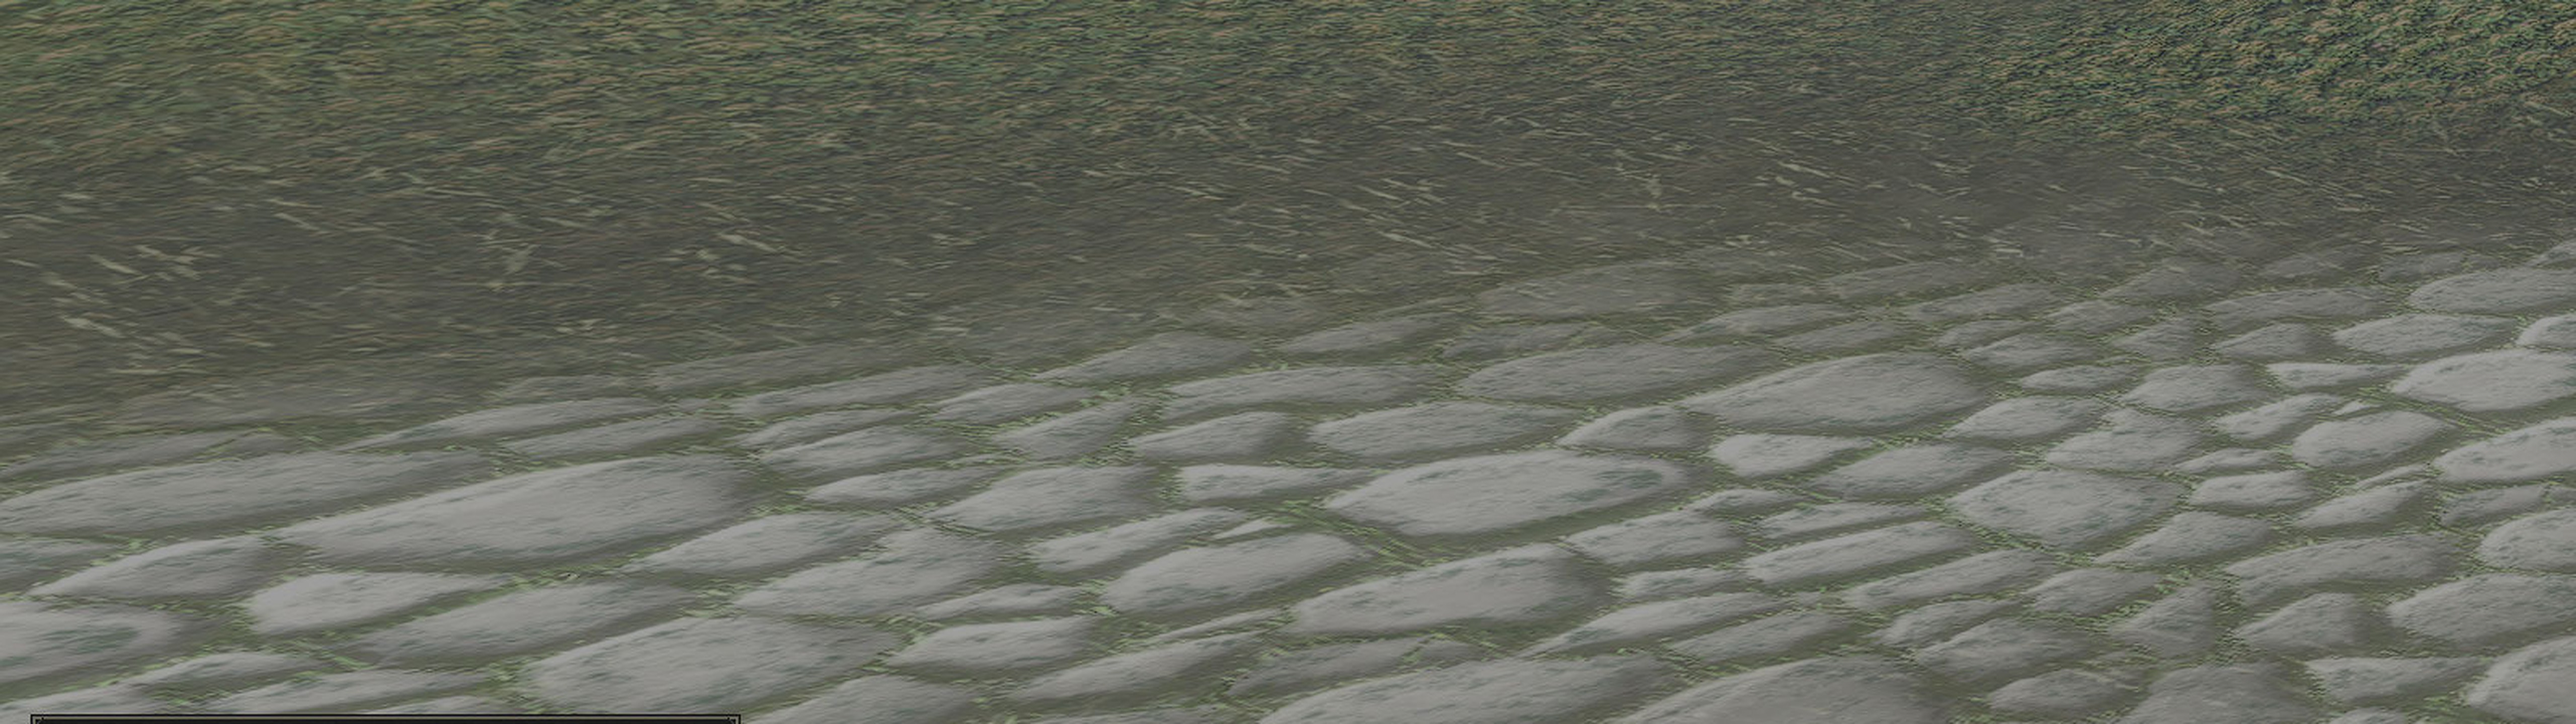
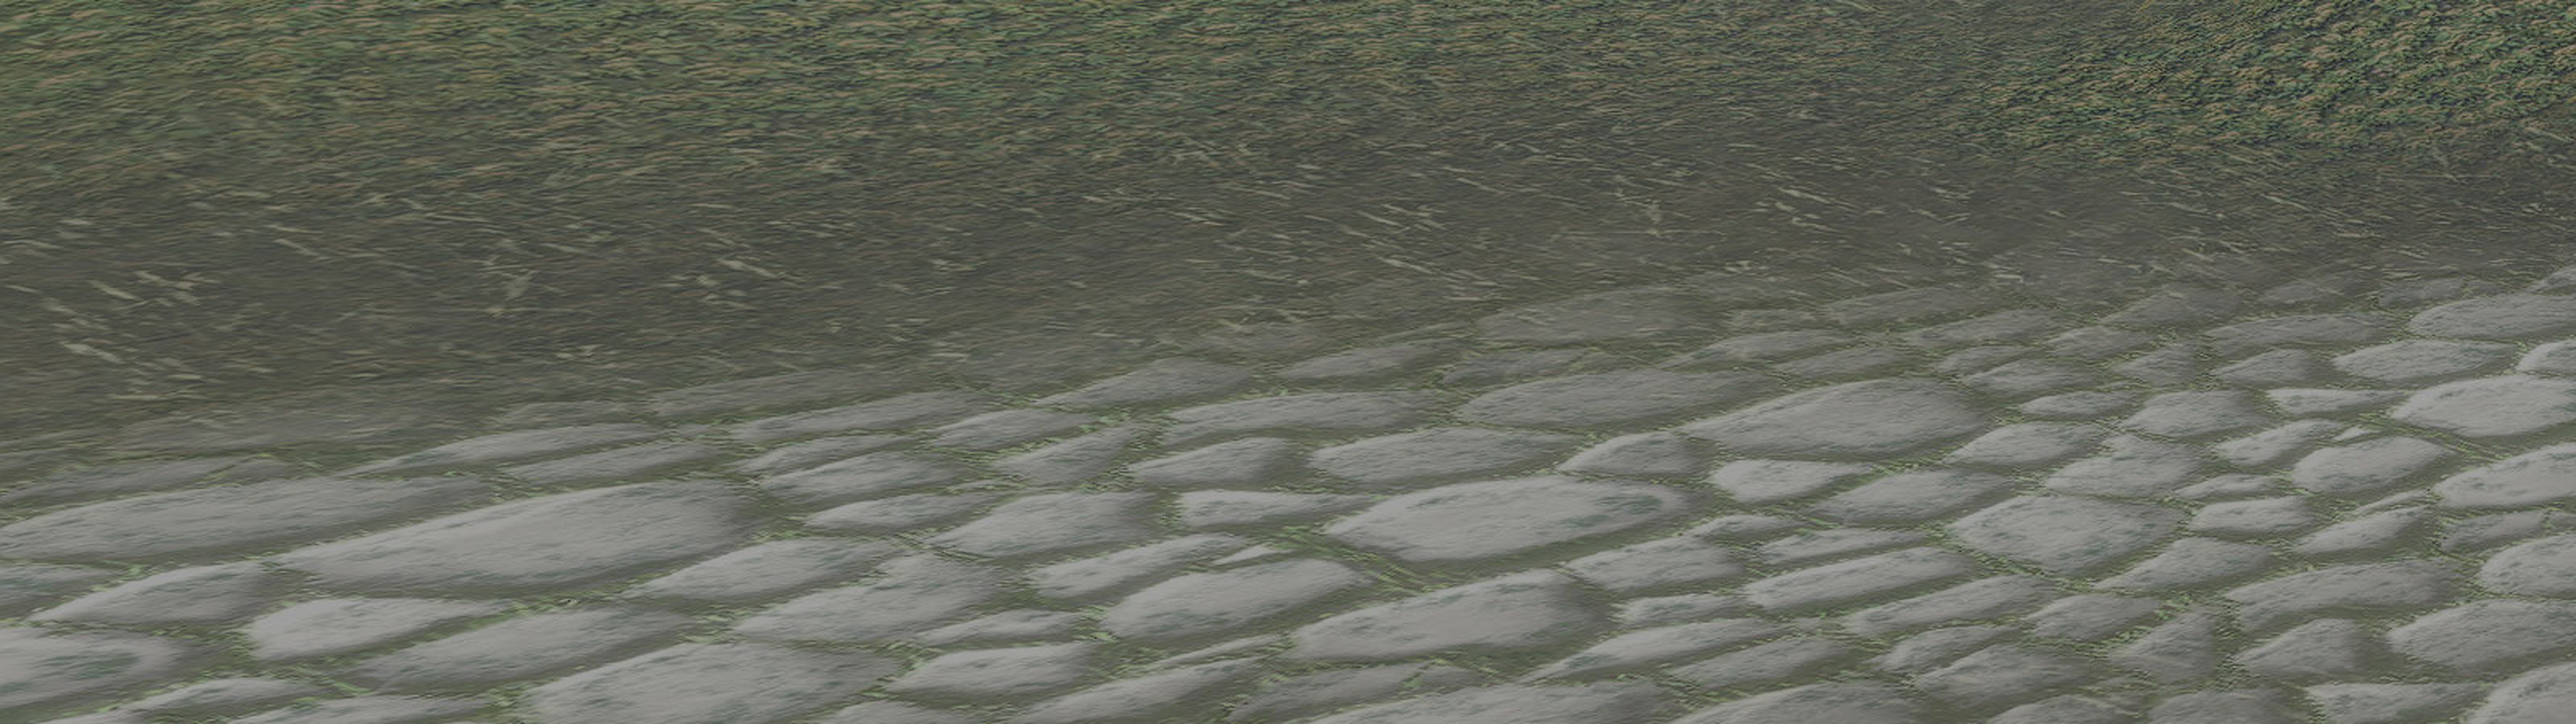
fix(media): exclude old chat frame from Orbs scenery

diff --git a/Tools/tests/test_marketing.py b/Tools/tests/test_marketing.py
@@ -92,6 +92,23 @@ class MarketingImages(unittest.TestCase):
         inputs = [source for _, source, *_ in M.CARDS + M.SHOWCASES + M.GALLERY]
         self.assertTrue(set(inputs) <= known, set(inputs) - known)
 
+    def test_scenery_plate_crops_avoid_recorded_source_ui(self):
+        spec = importlib.util.spec_from_file_location("plates", ROOT / "Tools/media/plates.py")
+        plates = importlib.util.module_from_spec(spec)
+        spec.loader.exec_module(plates)
+        manifest = json.loads((M.PLATES / "manifest.json").read_text(encoding="utf-8"))
+        for name, entry in manifest.items():
+            self.assertEqual(tuple(entry["crop"]), plates.SPECS[name][1],
+                             "Fix: regenerate the plate manifest with python Tools/media/plates.py")
+            if name == "minimap.png":  # This map stand-in intentionally captures UI, not scenery.
+                continue
+            left, top, right, bottom = entry["crop"]
+            self.assertTrue(0 <= left < right <= 5120 and 0 <= top < bottom <= 1440, name)
+            for label, (x1, y1, x2, y2) in plates.UI_REGIONS[entry["source"]].items():
+                overlaps = max(left, x1) < min(right, x2) and max(top, y1) < min(bottom, y2)
+                self.assertFalse(overlaps,
+                                 f"{name} includes {entry['source']} {label}; fix: recrop outside the recorded UI regions and run python Tools/media/plates.py")
+
     def test_gallery_matches_current_readme_media(self):
         for name, source, width in M.GALLERY:
             path = ROOT / "docs/store/gallery" / name

diff --git a/Tools/media/plates.py b/Tools/media/plates.py
@@ -12,12 +12,27 @@ from pathlib import Path
 
 ROOT = Path(__file__).resolve().parents[2]
 OUT = ROOT / "docs/media/plates"
+UI_REGIONS = {
+    "game_03.png": {
+        "chat": (16, 1210, 464, 1440),
+        "active targets and items": (1680, 800, 1840, 960),
+        "world labels": (1900, 400, 4640, 1000),
+        "central HUD": (1840, 1000, 3380, 1440),
+        "right rail": (4640, 0, 5120, 1440),
+    },
+    "game_09.png": {
+        "chat": (16, 1180, 660, 1440),
+        "central HUD": (1500, 1180, 3400, 1440),
+        "world labels and waypoint": (2100, 200, 2850, 900),
+        "right rail": (4380, 0, 5120, 1440),
+    },
+}
 SPECS = {
     "forest-1080.jpg": ("game_09.png", (0, 300, 1520, 1155), (1920, 1080)),
     "forest-ultrawide.jpg": ("game_09.png", (0, 300, 2048, 876), (5120, 1440)),
     "forest-mac.jpg": ("game_09.png", (0, 300, 1296, 1138), (3456, 2234)),
     "town-1080.jpg": ("game_03.png", (0, 400, 1440, 1210), (1920, 1080)),
-    "town-ultrawide.jpg": ("game_03.png", (0, 768, 1600, 1218), (5120, 1440)),
+    "town-ultrawide.jpg": ("game_03.png", (0, 752, 1600, 1202), (5120, 1440)),
     "town-mac.jpg": ("game_03.png", (0, 400, 1248, 1207), (3456, 2234)),
     "minimap.png": ("game_09.png", (4910, 70, 5038, 198), (256, 256)),
 }

diff --git a/docs/media/plates/PROVENANCE.md b/docs/media/plates/PROVENANCE.md
@@ -13,7 +13,7 @@ right and bottom are exclusive.
 | forest-ultrawide.jpg | game_09.png, current build | 0, 300, 2048, 876 | 5120x1440 |
 | forest-mac.jpg | game_09.png, current build | 0, 300, 1296, 1138 | 3456x2234 |
 | town-1080.jpg | game_03.png, older build, scenery only | 0, 400, 1440, 1210 | 1920x1080 |
-| town-ultrawide.jpg | game_03.png, older build, scenery only | 0, 768, 1600, 1218 | 5120x1440 |
+| town-ultrawide.jpg | game_03.png, older build, scenery only | 0, 752, 1600, 1202 | 5120x1440 |
 | town-mac.jpg | game_03.png, older build, scenery only | 0, 400, 1248, 1207 | 3456x2234 |
 | minimap.png | game_09.png, current build | 4910, 70, 5038, 198 | 256x256 |
 
@@ -22,6 +22,26 @@ the town crops show bright grass and a cobbled road. Each scenery crop excludes
 all UI, names and the player's Medallions. The minimap is separately a real map
 stand-in, including the game's player arrow, not a UI-free scenery plate.
 The Mac crops have less than 0.04% aspect adjustment when resized.
+
+The following conservative UI exclusion boxes are recorded in
+`Tools/media/plates.py`. The plate test rejects scenery crops that intersect any
+box for their source. The minimap stand-in above intentionally captures map UI
+and is excluded from this scenery-only check. The town ultrawide crop ends at
+y=1202, above the old chat frame; its previous bottom edge at y=1218 included
+the chat header. Moving the crop upward 16 pixels removes it without painting
+or reducing the crop's width.
+
+| Source | UI region | Exclusion box |
+| --- | --- | --- |
+| game_03.png | Chat | 16, 1210, 464, 1440 |
+| game_03.png | Active targets and items | 1680, 800, 1840, 960 |
+| game_03.png | World labels | 1900, 400, 4640, 1000 |
+| game_03.png | Central HUD | 1840, 1000, 3380, 1440 |
+| game_03.png | Right rail | 4640, 0, 5120, 1440 |
+| game_09.png | Chat | 16, 1180, 660, 1440 |
+| game_09.png | Central HUD | 1500, 1180, 3400, 1440 |
+| game_09.png | World labels and waypoint | 2100, 200, 2850, 900 |
+| game_09.png | Right rail | 4380, 0, 5120, 1440 |
 
 No source offers a UI-free full 5120-pixel width at 32:9. The honest ultrawide
 crops above are 2048x576 and 1600x450, enlarged to 5120x1440 without extending
